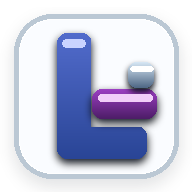
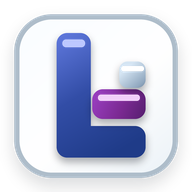
Icone: assento e cabeca rentes a base do L com 3D limpo

diff --git a/accounts/templates/accounts/base.html b/accounts/templates/accounts/base.html
@@ -15,9 +15,9 @@
     <meta property="og:image" content="{% static 'accounts/lindice-icon-512.png' %}">
     <meta property="og:type" content="website">
     <title>Líndice</title>
-    <link rel="icon" type="image/svg+xml" href="{% static 'accounts/lindice-icon.svg' %}?v=20260531">
-    <link rel="apple-touch-icon" href="{% static 'accounts/lindice-icon-192.png' %}?v=20260531">
-    <link rel="manifest" href="{% static 'accounts/site.webmanifest' %}?v=20260531">
+    <link rel="icon" type="image/svg+xml" href="{% static 'accounts/lindice-icon.svg' %}?v=20260623">
+    <link rel="apple-touch-icon" href="{% static 'accounts/lindice-icon-192.png' %}?v=20260623">
+    <link rel="manifest" href="{% static 'accounts/site.webmanifest' %}?v=20260623">
     <style>
         :root {
             --brand-blue: #4d63b7;
